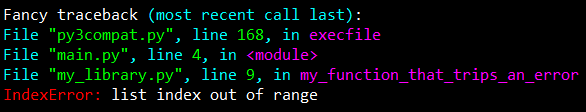
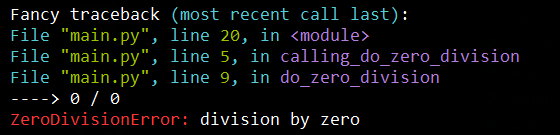
Improved `print_fancy_traceback()`

Changed region(s): [[0.0, 0.0268, 1.0, 0.9643]]

diff --git a/src/dvg_debug_functions.py b/src/dvg_debug_functions.py
@@ -8,28 +8,30 @@ Functions:
         'Debug' print a single line to the terminal with optional ANSI color
         codes. Particularly well-suited for multithreaded PyQt programs where
         multiple threads are printing information to the same terminal.
-        
+
     tprint(...):
         Identical to dprint(...), but now prepended with a time.perf_counter()
         timestamp.
 
     print_fancy_traceback(...):
-        Prints the exception to the terminal, using ANSI color codes that mimic
-        the IPython command shell.
+        Print an Exception traceback or the current regular call stack to the
+        terminal, using ANSI color codes that mimic the IPython command shell.
 """
 __author__ = "Dennis van Gils"
 __authoremail__ = "vangils.dennis@gmail.com"
 __url__ = "https://github.com/Dennis-van-Gils/python-dvg-debug-functions"
-__date__ = "02-07-2020"
-__version__ = "2.0.0"
+__date__ = "17-07-2020"
+__version__ = "2.1.0"
 
 import os
 import sys
 import time
+import traceback
+import inspect
 
 try:
     from PyQt5 import QtCore
-except:
+except ImportError:
     PYQT5_IS_PRESENT = False
 else:
     PYQT5_IS_PRESENT = True
@@ -42,7 +44,8 @@ class ANSI:
     GREEN = "\033[1;32m"
     YELLOW = "\033[1;33m"
     BLUE = "\033[1;34m"
-    PURPLE = "\033[1;35m"
+    PURPLE = "\033[1;35m"  # aka MAGENTA
+    MAGENTA = "\033[1;35m"
     CYAN = "\033[1;36m"
     WHITE = "\033[1;37m"
 
@@ -93,69 +96,77 @@ def tprint(str_msg, ANSI_color=None):
     dprint("%.4f %s" % (time.perf_counter(), str_msg), ANSI_color)
 
 
-def print_fancy_traceback(err, back=3):
-    """Print the exception `err` to the terminal with a traceback that is
-    `back` deep, using ANSI color codes that mimic the IPython command shell.
+def print_fancy_traceback(err=None, back=3):
+    """Print an Exception traceback or the current regular call stack to the
+    terminal, using ANSI color codes that mimic the IPython command shell.
+
+    Args:
+        err (:class:`Exception` | :obj:`str` | :obj:`None`):
+            When `err` is of type :class:`Exception`, then an Exception
+            traceback will be printed. When `err` is of another type, then
+            the current regular call stack will be printed.
+
+            Default: :obj:`None`
+
+        back (:obj:`int`):
+            Depth of the traceback or call stack to print.
+
+            Default: :const:`3`
     """
     print(
-        ANSI.WHITE
-        + "\nFancy traceback "
+        "\n"
+        + ANSI.WHITE
+        + "Fancy traceback "
         + ANSI.CYAN
         + "(most recent call last)"
         + ANSI.WHITE
         + ":"
     )
 
-    while back >= 1:
-        try:
-            err_file = os.path.basename(sys._getframe(back).f_code.co_filename)
-        except ValueError:
-            # Call stack is not deep enough. Proceed to next in line.
-            back -= 1
-        else:
-            err_fun = sys._getframe(back).f_code.co_name
-            err_line = sys._getframe(back).f_lineno
-            print(
-                (
-                    ANSI.CYAN
-                    + "File "
-                    + ANSI.GREEN
-                    + '"%s"'
-                    + ANSI.CYAN
-                    + ", line "
-                    + ANSI.GREEN
-                    + "%s"
-                    + ANSI.CYAN
-                    + ", in "
-                    + ANSI.PURPLE
-                    + "%s"
-                    + ANSI.WHITE
-                )
-                % (err_file, err_line, err_fun)
+    def print_frame(filename, line_no, frame_name):
+        print(
+            (
+                ANSI.CYAN
+                + "File "
+                + ANSI.GREEN
+                + '"%s"'
+                + ANSI.CYAN
+                + ", line "
+                + ANSI.GREEN
+                + "%s"
+                + ANSI.CYAN
+                + ", in "
+                + ANSI.PURPLE
+                + "%s"
+                + ANSI.WHITE
             )
-            back -= 1
+            % (filename, line_no, frame_name)
+        )
 
     if isinstance(err, Exception):
-        if not hasattr(err, "abbreviation"):
-            err.abbreviation = ""
-        if not hasattr(err, "description"):
-            err.description = ""
+        etype, evalue, tb = sys.exc_info()
+        stack = traceback.extract_tb(tb)
+        stack = stack[-back:]
 
-        if err.abbreviation == "" and err.description == "":
-            print(
-                (ANSI.RED + "%s: " + ANSI.WHITE) % sys.exc_info()[0].__name__,
-                end="",
-            )
-            print(err)
-        else:
-            print(
-                (ANSI.RED + "%s: " + ANSI.WHITE + "%s: %s")
-                % (
-                    sys.exc_info()[0].__name__,
-                    err.abbreviation,
-                    err.description,
-                )
+        for frame in stack:
+            print_frame(
+                os.path.basename(frame.filename), frame.lineno, frame.name
             )
 
-    elif isinstance(err, str):
-        print((ANSI.RED + "Error: " + ANSI.WHITE + "%s") % err)
+        print("----> %s" % stack[-1].line)
+        print(
+            (ANSI.RED + "%s: " + ANSI.WHITE + "%s") % (etype.__name__, evalue)
+        )
+
+    else:
+        stack = inspect.stack()
+        stack.reverse()
+        stack = stack[-back - 1 : -1]
+
+        for frame in stack:
+            print_frame(
+                os.path.basename(frame.filename), frame.lineno, frame.function
+            )
+
+        if isinstance(err, str):
+            print((ANSI.RED + "Error: " + ANSI.WHITE + "%s") % err)

diff --git a/tests/test_dvg_debug_functions.py b/tests/test_dvg_debug_functions.py
@@ -71,18 +71,3 @@ def test_pft():
     except ZeroDivisionError as err:
         with mock.patch("sys.stdout", new=io.StringIO()) as fake_stdout:
             pft(err, 1)
-
-
-def test_pft_descr_abbr():
-    try:
-        0 / 0
-    except ZeroDivisionError as err:
-        err.abbreviation = "abbr"
-        err.description = "descr"
-        with mock.patch("sys.stdout", new=io.StringIO()) as fake_stdout:
-            pft(err, 1)
-
-        assert (
-            fake_stdout.getvalue().split("\n")[-2]
-            == "\x1b[1;31mZeroDivisionError: \x1b[1;37mabbr: descr"
-        )

diff --git a/setup.py b/setup.py
@@ -24,7 +24,7 @@ def read(*names, **kwargs):
 
 setup(
     name="dvg-debug-functions",
-    version="2.0.0",
+    version="2.1.0",
     license="MIT",
     description="Functions to neatly print debug information to the terminal output, well-suited for multithreaded programs.",
     long_description="%s\n%s"

diff --git a/README.rst b/README.rst
@@ -21,9 +21,18 @@ dprint()
   
   dprint(str_msg, ANSI_color=None) 
 
-'Debug' print a single line to the terminal with optional ANSI color codes. The line will be terminated with a newline character and the terminal output buffer is forced to flush before and after every print. In addition, if PyQt5 is present in the Python environment, then a mutex lock will be obtained and released again for each dprint execution.
+'Debug' print a single line to the terminal with optional ANSI color codes. The
+line will be terminated with a newline character and the terminal output buffer
+is forced to flush before and after every print. In addition, if PyQt5 is
+present in the Python environment, then a mutex lock will be obtained and
+released again for each dprint execution.
 
-There is a lot of overhead using this print statement, but it is particularly well-suited for multithreaded PyQt programs where multiple threads are each printing information to the same terminal. The ``dprint()`` function ensures that each line sent to the terminal will remain as a continious single line, whereas a regular ``print()`` statement will likely result in the lines getting mixed up.
+There is a lot of overhead using this print statement, but it is particularly
+well-suited for multithreaded PyQt programs where multiple threads are each
+printing information to the same terminal. The ``dprint()`` function ensures
+that each line sent to the terminal will remain as a continious single line,
+whereas a regular ``print()`` statement will likely result in the lines getting
+mixed up.
 
 tprint()
 --------
@@ -31,7 +40,8 @@ tprint()
 
   tprint(str_msg, ANSI_color=None) 
 
-Identical to ``dprint()``, but now prepended with a ``time.perf_counter()`` timestamp.
+Identical to ``dprint()``, but now prepended with a ``time.perf_counter()``
+timestamp.
 
 print_fancy_traceback()
 -----------------------
@@ -39,7 +49,19 @@ print_fancy_traceback()
 
   print_fancy_traceback(err, back=3)
 
-Prints the exception ``err`` to the terminal with a traceback that is ``back`` deep, using ANSI color codes that mimic the IPython command shell.
+Print an Exception traceback or the current regular call stack to the terminal,
+using ANSI color codes that mimic the IPython command shell.
+
+    Args:
+        err (``Exception`` | ``str`` | ``None``):
+            When ``err`` is of type ``Exception``, then an Exception traceback
+            will be printed. When ``err`` is of another type, then the current
+            regular call stack will be printed.
+
+        back (``int``):
+            Depth of the traceback or call stack to print.
+
+            Default: 3
 
 Example output:
 

diff --git a/CHANGELOG.rst b/CHANGELOG.rst
@@ -1,22 +1,26 @@
 Changelog
 =========
 
-0.0.1 (2020-05-13)
+2.1.0 (2020-07-17)
 ------------------
-* First release on PyPI.
+* Improved `print_fancy_traceback()`
 
-1.1.0 (2020-06-04)
+2.0.0 (2020-07-02)
 ------------------
-* Added `tprint(...)`
-
-1.1.1 (2020-06-06)
-------------------
-* Extended README
+* DvG module filenames changed to lowercase
 
 1.1.2 (2020-06-08)
 ------------------
 * Code style: black
 
-2.0.0 (2020-07-02)
+1.1.1 (2020-06-06)
 ------------------
-* DvG module filenames changed to lowercase
+* Extended README
+
+1.1.0 (2020-06-04)
+------------------
+* Added `tprint(...)`
+
+0.0.1 (2020-05-13)
+------------------
+* First release on PyPI.
